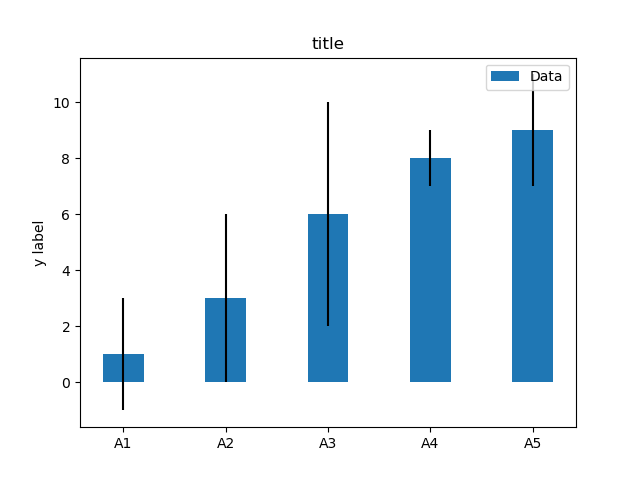
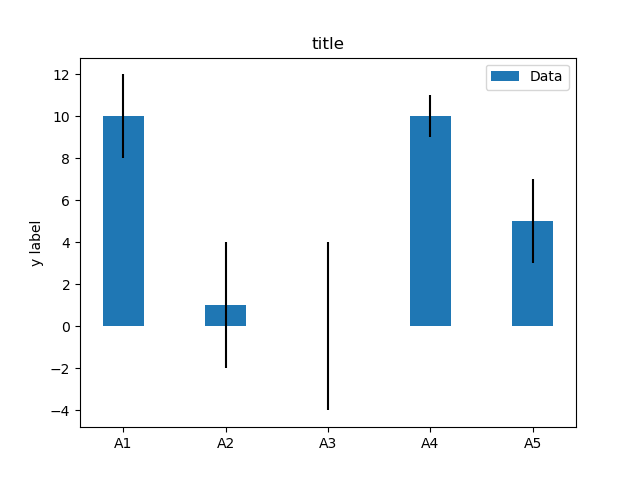
first commit

diff --git a/example.py b/example.py
@@ -2,7 +2,7 @@ import numpy as np
 import matplotlib.pyplot as plt
 
 labels = ['A1', 'A2', 'A3', 'A4', 'A5']
-m_means = [1,3,6,8,9]
+m_means = [10,1,0,10,5]
 m_std = [2, 3, 4, 1, 2]
 width = 0.40       # the width of the bars
 

diff --git a/README.md b/README.md
@@ -1,4 +1,4 @@
-# Matplotlib no 109 
+# Matplotlib no 110 
 
 python example
 
